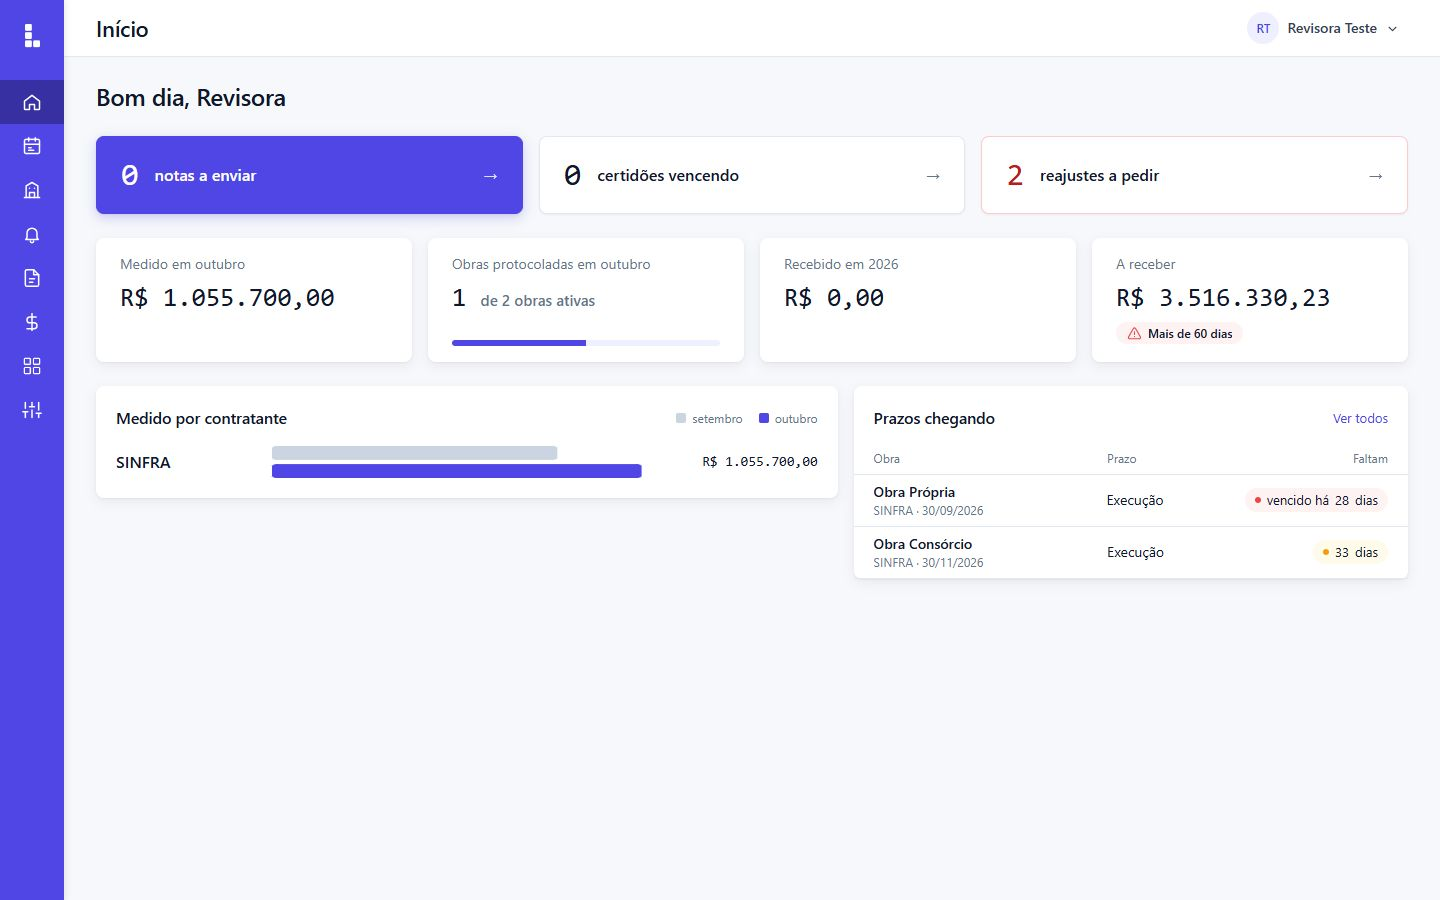
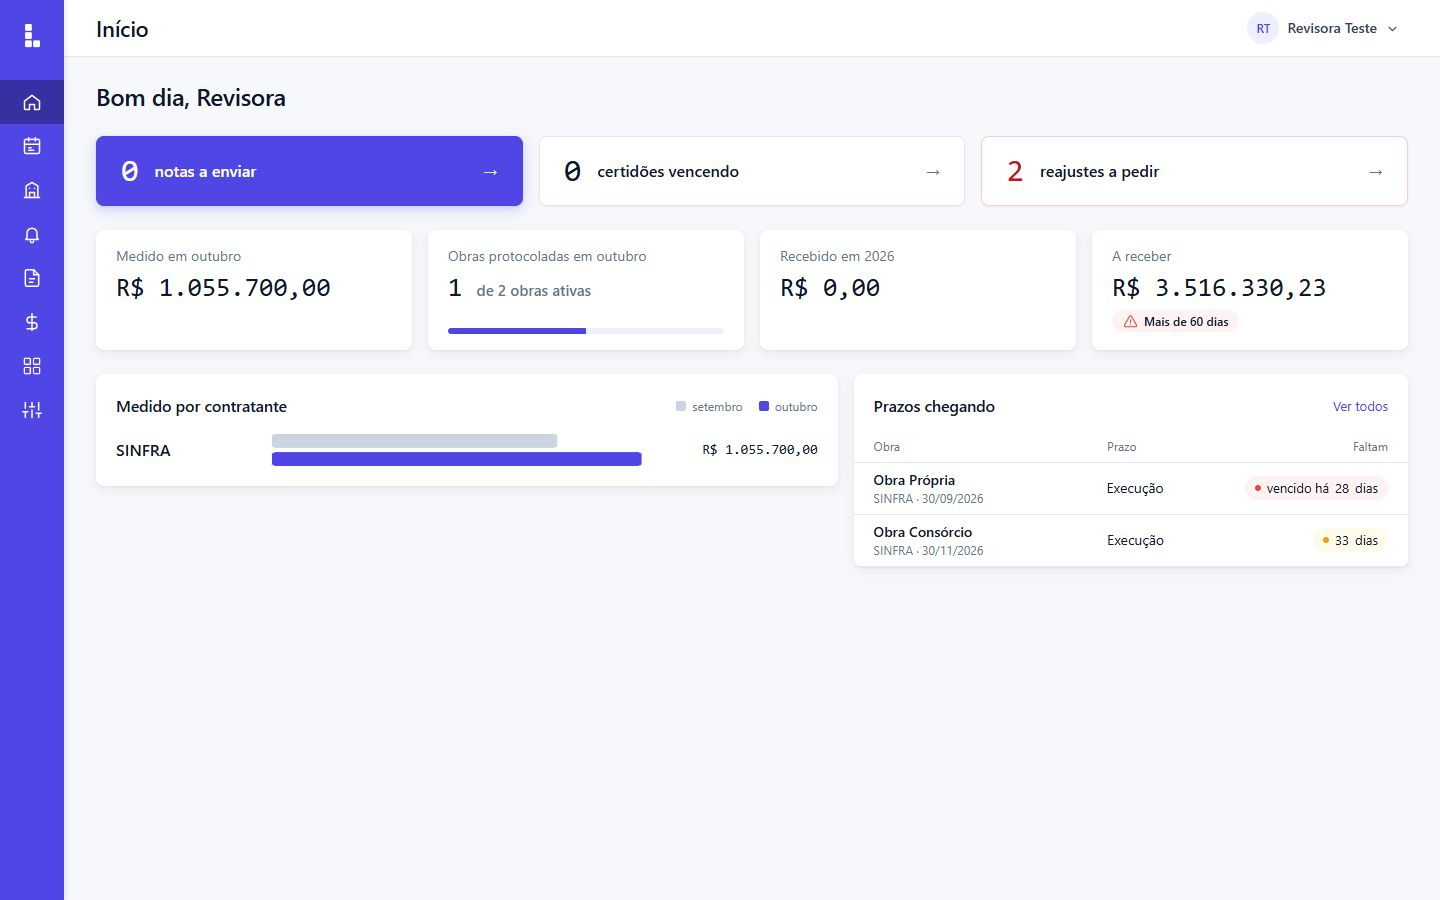
fix: devolve o padding dos cartoes do Inicio para nao crescerem e nao quebrarem o valor

diff --git a/frontend/src/inicio.css b/frontend/src/inicio.css
@@ -16,7 +16,7 @@
 /* cartoes do topo */
 .ini-cartoes { display: grid; grid-template-columns: repeat(auto-fit, minmax(220px, 1fr)); gap: 16px; }
 .ini-cartao {
-  display: flex; align-items: center; gap: 16px; padding: 20px 24px; border-radius: var(--raio, 8px);
+  display: flex; align-items: center; gap: 16px; padding: 16px 24px; border-radius: var(--raio, 8px);
   background: var(--superficie, #FFFFFF); color: var(--texto, #0F172A); text-decoration: none;
   border: 1px solid var(--linha, #E2E8F0); box-shadow: 0 1px 2px rgba(15, 23, 42, .06);
 }
@@ -43,7 +43,7 @@
   box-shadow: 0 1px 2px rgba(15, 23, 42, .06), 0 4px 12px rgba(15, 23, 42, .06);
 }
 /* rotulo e valor no alto, alinhados entre os quatro; barra e selo descem para o pe' (margin-top: auto) */
-.ini-numero { padding: 16px 24px; display: flex; flex-direction: column; gap: 8px; min-width: 0; }
+.ini-numero { padding: 16px 20px; display: flex; flex-direction: column; gap: 6px; min-width: 0; }
 .ini-numero__valor ~ * { margin-top: auto; }
 .ini-numero__rotulo { font-size: 14px; line-height: 20px; color: var(--texto-2, #64748B); }
 .ini-numero__valor { font-size: 26px; line-height: 32px; font-weight: 500; overflow-wrap: anywhere; }
